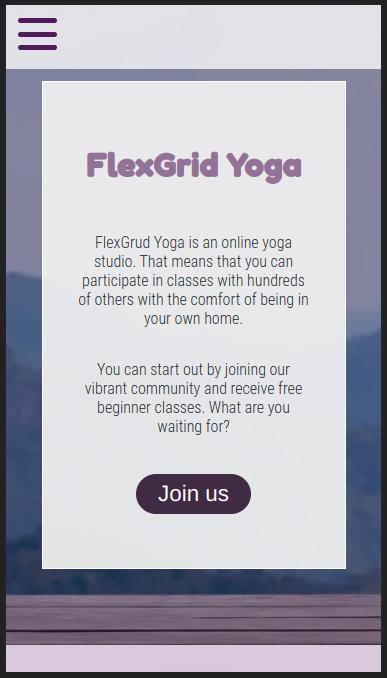
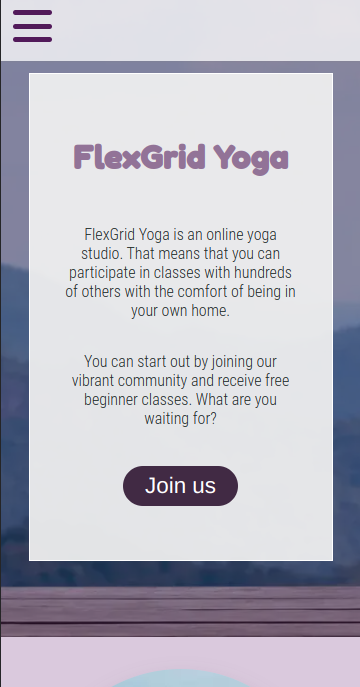
fix: replace images in readme that had the spelling error corrected in earlier commit.

diff --git a/README.md b/README.md
@@ -6,6 +6,9 @@
 
 ## Project outline
 
+
+
+### **user stories:**
 > Typical users are interested in getting involved with online-classes and tutorship in yoga.
 
 - **The typical end user wants to:**
@@ -28,6 +31,8 @@
   - let new users sign up to newsletter to keep them in the loop of what is happening in the community
   - let users know how they can engage in social media.
   - let existing users log in to view the paid-for content.
+  - Give a hint about what is expected inside the paid members area
+  - Let new users sign up and become full members
 
 ## Approach
 
@@ -304,13 +309,12 @@ Here follows some picure of the website on mobile and tablet to show the website
 > >
 > > This is what the mobile navigation looks like closed.
 
-> ![mobile navigation open](assets/img/testing/readme/testing/mobile-nav-open.png)
->
+> ![mobile navigation open](assets/img/readme/testing/mobile-nav-open.png)
 > > When you click the burger menu button, this is what the navigation menu looks like open.
 > >
 > > You can also see that when open the menu, the menu bar disapears, and the burger icon is animated to become an X.
 
-> ![mobile navigation open](assets/img/readme/testing/mobile-nav-open.png)
+> ![mobile navigation active button](assets/img/readme/testing/mobile-nav-button.png)
 >
 > > When you click a button in the menu, it takes you to the correlating section.
 > >
@@ -409,9 +413,8 @@ To extend the validation of the HTML and CSS, external validators from w3c has b
 
 ## **Testing User stories**
 
-In this section we are testing the user stories that was outlined before this website was created in order to check if we have met all user needs.
-
-We are testing the user stories one by one. Click the list items to view its correlating solution.
+> In this section we are testing the user stories that was outlined before this website was created in order to check if we have met all user needs.
+> >We are testing the user stories one by one. Click the list items to view its correlating solution.
 
 - **Typical users wants to:**
 
